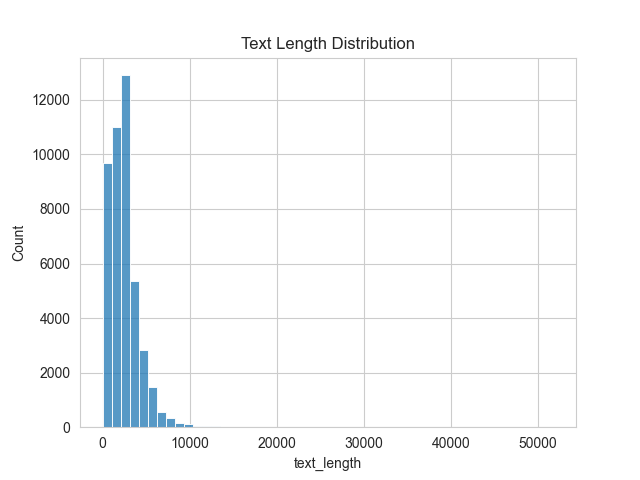
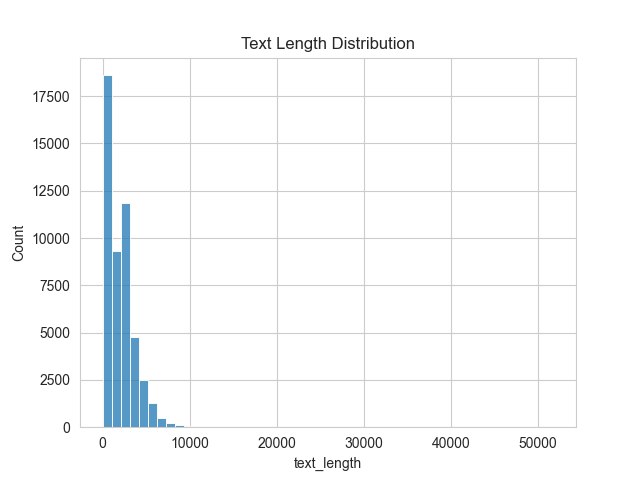
error fix

diff --git a/run_eda.py b/run_eda.py
@@ -10,7 +10,7 @@ PROJECT_ROOT = Path(__file__).resolve().parent
 if str(PROJECT_ROOT) not in sys.path:
     sys.path.insert(0, str(PROJECT_ROOT))
 
-from src.data.load_data import merge_datasets
+from src.data.merge_datasets import merge_datasets
 from src.data.eda import FakeNewsEDA
 from src.utils.logging_utils import configure_logging
 import logging
@@ -19,25 +19,9 @@ configure_logging()
 logger = logging.getLogger(__name__)
 
 
-def resolve_data_paths():
-    """Resolve supported fake/real dataset locations."""
-    candidates = [
-        (Path("data/raw/fake.csv"), Path("data/raw/real.csv")),
-        (Path("data/raw/Fake.csv"), Path("data/raw/True.csv")),
-        (Path("data/raw/dataset1/Fake.csv"), Path("data/raw/dataset1/True.csv")),
-    ]
-
-    for fake_path, real_path in candidates:
-        if fake_path.exists() and real_path.exists():
-            return fake_path, real_path
-
-    return candidates[0]
-
-
 def save_eda_report(
     eda,
-    fake_path: Path,
-    real_path: Path,
+    data_sources: dict,
     output_path: Path = Path("reports/eda_report.json"),
 ):
     """Save EDA summary report to JSON."""
@@ -49,10 +33,7 @@ def save_eda_report(
         df["word_count"] = df["text"].astype(str).str.split().str.len()
 
     report = {
-        "data_files": {
-            "fake_path": str(fake_path),
-            "real_path": str(real_path)
-        },
+        "data_files": data_sources,
         "rows": int(len(df)),
         "columns": list(df.columns),
         "label_distribution": {
@@ -83,29 +64,24 @@ def save_eda_report(
 
 def main():
     """Run full EDA on the dataset"""
-    
-    # Check if data files exist
-    fake_path, real_path = resolve_data_paths()
-    
-    if not fake_path.exists() or not real_path.exists():
-        logger.error("Data files not found!")
-        logger.error("Please ensure one of the supported pairs exists:")
-        logger.error("- data/raw/fake.csv + data/raw/real.csv")
-        logger.error("- data/raw/Fake.csv + data/raw/True.csv")
-        logger.error("- data/raw/dataset1/Fake.csv + data/raw/dataset1/True.csv")
-        logger.error("Download from: https://www.kaggle.com/datasets/clmentbisaillon/fake-and-real-news-dataset")
-        sys.exit(1)
-    
+
     # Load and merge data
     logger.info("Loading datasets...")
-    df = merge_datasets(fake_path, real_path)
+    df = merge_datasets()
     logger.info(f"Total samples: {len(df)}")
+
+    data_sources = {
+        "isot_fake": str(Path("data/raw/isot/Fake.csv")),
+        "isot_true": str(Path("data/raw/isot/True.csv")),
+        "liar_train": str(Path("data/raw/liar_dataset/train.tsv")),
+        "fakenewsnet_root": str(Path("data/raw/FakeNewsNet")),
+    }
     
     # Run EDA
     logger.info("Starting EDA analysis...")
     eda = FakeNewsEDA(df)
     eda.run()
-    report_path = save_eda_report(eda, fake_path, real_path)
+    report_path = save_eda_report(eda, data_sources)
     
     logger.info("\n" + "=" * 70)
     logger.info("EDA Complete! Check reports/figures/ for visualizations")

diff --git a/src/data/merge_datasets.py b/src/data/merge_datasets.py
@@ -32,17 +32,40 @@ def load_isot():
 def load_liar():
     """Load LIAR dataset"""
 
-    df = pd.read_csv(RAW_PATH / "liar_dataset" / "train.tsv", sep="\t")
+    liar_path = RAW_PATH / "liar_dataset" / "train.tsv"
+    liar_columns = [
+        "id",
+        "label",
+        "statement",
+        "subject",
+        "speaker",
+        "speaker_job_title",
+        "state_info",
+        "party_affiliation",
+        "barely_true_counts",
+        "false_counts",
+        "half_true_counts",
+        "mostly_true_counts",
+        "pants_on_fire_counts",
+        "context",
+    ]
+
+    # LIAR TSV is typically headerless; force names to avoid KeyError on "label".
+    df = pd.read_csv(liar_path, sep="\t", header=None, names=liar_columns)
+
+    if "label" not in df.columns or "statement" not in df.columns:
+        raise ValueError("LIAR dataset missing required columns: label/statement")
 
     fake_labels = ["false", "pants-fire", "barely-true"]
 
-    df["label"] = df["label"].apply(
+    df["label"] = df["label"].astype(str).str.strip().str.lower().apply(
         lambda x: 1 if x in fake_labels else 0
     )
 
     df = df.rename(columns={"statement": "text"})
 
     df["title"] = ""
+    df["text"] = df["text"].astype(str).fillna("").str.strip()
 
     return df[["title", "text", "label"]]
 
